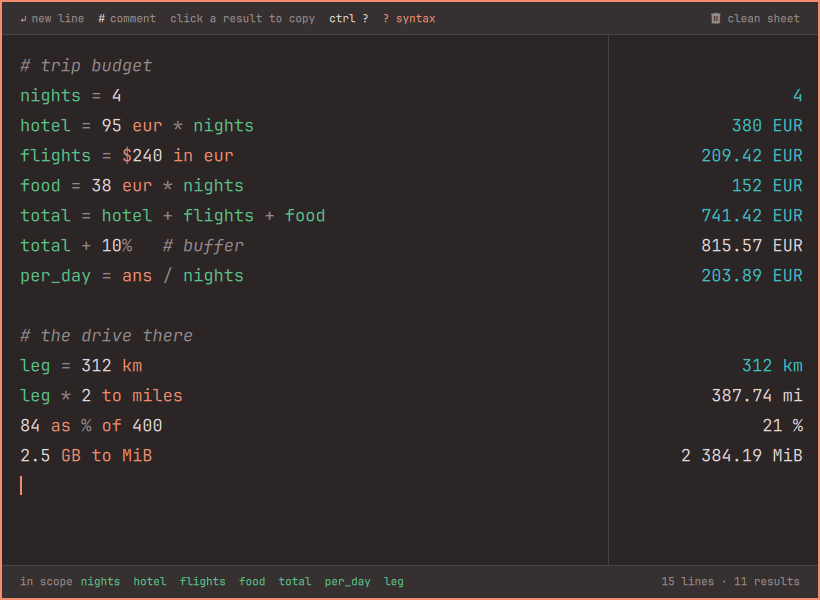
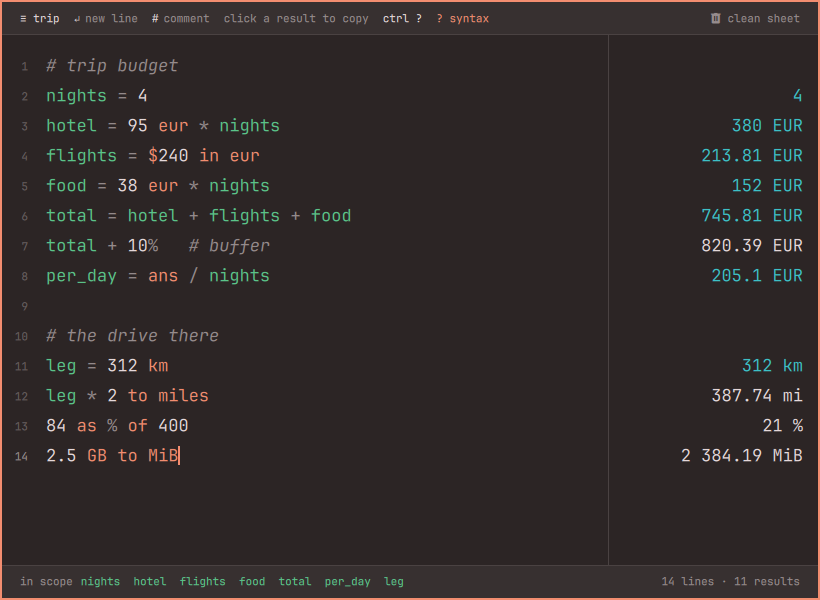
Refresh the docs and screenshot; bump to 0.4.0
README: sheets get their own section with a key table, the usage list
loses what was no longer true (clean sheet empties the open sheet, not
the only one), and the screenshot shows line numbers and the sheet name.
Syntax help: the sheets keys as rows, a name-completion example, line
numbers and Ctrl+Z under line results, and Tab and Escape as they now
behave.

diff --git a/Help.qml b/Help.qml
@@ -23,13 +23,20 @@ Item {
       ["utils = 190", "190"],
       ["total = rent + utils", "1 640"],
       ["total * 12", "19 680"],
-      ["ans / 4", "4 920"]
+      ["ans / 4", "4 920"],
+      ["ut ⇥  →  utils", "190"]
     ]},
-    { title: "Line results", note: "@n then Tab pastes line n's exact result, units included. It is a copy, not a link: it won't follow later edits to line n.", rows: [
+    { title: "Line results", note: "Lines are numbered in the gutter. @n then Tab pastes line n's exact result, units included; Tab only completes when line n has a valid result. It is a copy, not a link: it won't follow later edits to line n, and Ctrl+Z turns it back into @n.", rows: [
       ["10 / 3", "3.3333"],
       ["@1 ⇥  →  3.3333333333333335", "3.3333"]
     ]},
-    { title: "Sheets", note: "One sheet is all you need, but you can keep more. Ctrl+O or the sheet's name in the top bar opens the tray: most recently used first, and the sheet you used last is the one that opens. Up/Down and Enter switch, Ctrl+Enter or a double-click renames, Ctrl+N or + starts a new one. Ctrl+D or the trash on a row asks to delete that sheet; Ctrl+D or Enter again deletes it for good, Escape keeps it.", rows: [] },
+    { title: "Sheets", note: "One sheet is all you need, but you can keep more. Ctrl+O or the sheet's name in the top bar opens the tray, most recently used first; the sheet you used last is the one that opens. Deleting the open sheet opens the next one.", rows: [
+      ["Up/Down, Enter", "switch sheet"],
+      ["Ctrl+Enter, double-click", "rename"],
+      ["Ctrl+N, +", "new sheet"],
+      ["Ctrl+D, then Ctrl+D or Enter", "delete for good"],
+      ["Escape", "keep it, or close the tray"]
+    ]},
     { title: "Comments", note: "Everything after # is a note, at the start of a line or after an expression. A long line wraps at the result column; its result stays on its first row.", rows: [
       ["# groceries", ""],
       ["rate = 65 eur   # agreed 12 Feb", "65 EUR"]
@@ -58,13 +65,13 @@ Item {
     { title: "Functions", note: "sqrt cbrt abs round floor ceil exp ln log log2 sign sin cos tan asin acos atan min max hypot pow — trig in radians unless given deg. Units stay through abs round floor ceil min max hypot; the rest need plain numbers. Constants pi, e, tau, phi.", rows: [] },
     { title: "Keys", note: "", rows: [
       ["Enter", "new line"],
-      ["Escape", "hide the sheet, keep everything"],
+      ["Escape", "close the tray or this page, else hide"],
       ["Ctrl+?", "this reference"],
       ["Ctrl+O", "sheets tray"],
       ["Ctrl+N", "new sheet"],
-      ["Ctrl+D twice", "delete the selected sheet"],
       ["Tab after @n", "paste line n's result"],
       ["Tab after a partial name", "finish the name"],
+      ["Tab", "otherwise, to the top bar"],
       ["Ctrl+Z", "undo, including clean sheet"],
       ["click a result", "copy the bare number"]
     ]}

diff --git a/Omasum.qml b/Omasum.qml
@@ -5,8 +5,8 @@ import Quickshell.Io
 import Quickshell.Wayland
 import qs.Commons
 
-// Omasum panel: the window, its bars, the help screen, persistence and the
-// currency rates. The sheet itself lives in Sheet.qml and every parsing,
+// Omasum panel: the window, its bars, the help screen, the sheets and
+// their files, and the currency rates. The sheet itself lives in Sheet.qml and every parsing,
 // unit and formatting decision in engine.js.
 //
 // Summoned over shell IPC: `omarchy-shell shell toggle dev.nur.omasum`.

diff --git a/README.md b/README.md
@@ -4,7 +4,7 @@
 
 Omasum is a calculator for Omarchy that works like a notepad: summon it with a key, type lines of plain text, and each line's result appears beside it as you type.
 
-<p align="center"><img src="assets/screenshot.png" width="820" alt="Omasum on the Ristretto theme: a trip budget on the left, results in a column on the right"></p>
+<p align="center"><img src="assets/screenshot.png" width="820" alt="Omasum on the Ristretto theme: a numbered trip budget on the left, results in a column on the right"></p>
 
 It is an [Omarchy 4](https://omarchy.org) shell plugin: QML for the surface, plain JavaScript for the engine, running inside the shell the desktop already keeps alive. No daemon, no binary, no build step. Colours come from the active Omarchy theme and repaint when you switch themes.
 
@@ -49,13 +49,27 @@ The plugin writes only to its own two directories above. It never edits your Hyp
 
 ## Using it
 
-- Every line is live. There is nothing to submit; the sheet re-evaluates as you type.
+- Every line is live. There is nothing to submit; the sheet re-evaluates as you type, and long lines wrap at the result column.
 - `name = value` defines a name for every line below it. `ans` and `last` hold the previous result. Start typing a name and a faint preview after the line offers the closest match with its current value; `Tab` finishes it.
-- Lines are numbered in the gutter. Type `@n` and press `Tab` to paste line n's result in its place: the exact value, units included (`@3` → `3.3333333333333335`, `@4` → `(5 kg)` inside a longer expression). A faint preview after the line shows what Tab will insert, or why it can't — Tab only completes when line n has a valid result. It is a copy, not a link, so it won't follow later edits to line n; `Ctrl+Z` turns it back into `@n`.
-- `#` starts a comment, at the start of a line or after an expression. Long lines wrap at the result column rather than running off the side.
-- Click a result to copy the bare number. `Escape` hides the sheet and keeps everything; `clean sheet` in the top bar is the only thing that empties it, and `Ctrl+Z` undoes that too.
-- One sheet is the default, but you can keep more. `Ctrl+O` (or the sheet's name in the top bar) opens a tray on the left with every sheet, most recently used first; Omasum always opens on the sheet you used last. `Up`/`Down` and `Enter` switch sheets, `Ctrl+Enter` or a double-click renames one, `Ctrl+N` (or `+` in the tray) starts a new one, and `Ctrl+D` (or the trash icon on a row) asks to delete the selected sheet — `Ctrl+D` or `Enter` again deletes it and its file for good, `Escape` keeps it. Deleting the open sheet opens the next most recent one; deleting the last one leaves a fresh empty sheet.
+- Lines are numbered in the gutter. `@n` then `Tab` pastes line n's exact result in its place, units included (`10/3` pastes as `3.3333333333333335`, `5 kg` as `(5 kg)` inside a longer expression). The preview shows what Tab will insert, or why it can't: Tab only completes when line n has a valid result. It is a copy, not a link, so it won't follow later edits to line n; `Ctrl+Z` turns it back into `@n`.
+- `#` starts a comment, at the start of a line or after an expression.
+- Click a result to copy the bare number.
+- `Escape` hides the sheet and keeps everything. `clean sheet` in the top bar empties the open sheet, and `Ctrl+Z` undoes that too.
 - `? syntax` in the top bar (or `Ctrl+?`) opens the full reference.
+
+### Sheets
+
+One sheet is the default, but you can keep as many as you like. `Ctrl+O`, or the sheet's name at the left of the top bar, opens a tray with every sheet, most recently used first. Omasum always opens on the sheet you used last.
+
+| In the tray | |
+| --- | --- |
+| `Up` / `Down`, `Enter` or a click | switch to a sheet |
+| `Ctrl+Enter` or a double-click | rename it; `Enter` saves, `Escape` cancels |
+| `Ctrl+N` or `+` | start a new sheet (works outside the tray too) |
+| `Ctrl+D` or the trash icon | ask to delete; `Ctrl+D` or `Enter` again deletes it and its file for good, `Escape` keeps it |
+| `Escape` | close the tray |
+
+Deleting the open sheet opens the next most recent one; deleting the last one leaves a fresh empty sheet. While the tray is open the bottom bar shows its keys.
 
 Some of what it understands:
 
